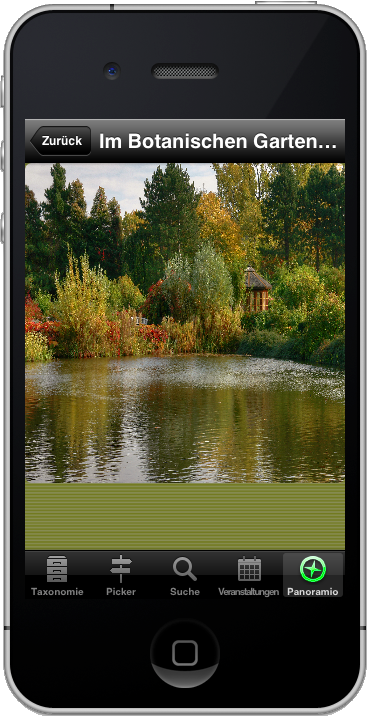
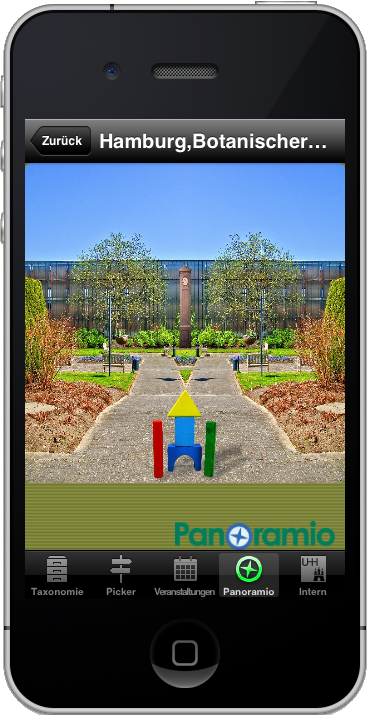
Login as view

diff --git a/Resources/module/panoramioimage.window.js b/Resources/module/panoramioimage.window.js
@@ -4,7 +4,7 @@ exports.create = function(_annotation) {
 	win.backButtonTitle = 'Zurück';
 	var imgView = Ti.UI.createImageView({
 		width : Ti.Platform.displayCaps.platformWidth,
-		height : Ti.Platform.displayCaps.platformWidth/a.ratio,
+		height : Ti.Platform.displayCaps.platformWidth / a.ratio,
 		image : '/assets/tree.png'
 	});
 	require('vendor/imageprogress').get({
@@ -13,7 +13,7 @@ exports.create = function(_annotation) {
 	});
 	var imageContainer = Titanium.UI.createScrollView({
 		width : Ti.Platform.displayCaps.platformWidth,
-		height : Ti.Platform.displayCaps.platformWidth/a.ratio,
+		height : Ti.Platform.displayCaps.platformWidth / a.ratio,
 		top : 0,
 		borderRadius : 7,
 		showHorizontalScrollIndicator : false,
@@ -22,9 +22,13 @@ exports.create = function(_annotation) {
 		maxZoomScale : 8,
 		minZoomScale : 1.0,
 		backgroundColor : "transparent"
-
 	});
 	imageContainer.add(imgView);
 	win.add(imageContainer);
+	win.add(Ti.UI.createImageView({
+		bottom : 0,right:10,
+		width : 160,
+		image : 'http://www.panoramio.com/img/glass/components/logo_bar/panoramio.png'
+	}));
 	return win;
 }

diff --git a/Resources/module/uhh.window.js b/Resources/module/uhh.window.js
@@ -2,9 +2,9 @@ exports.create = function() {
 	var self = require('module/win').create('UHH✦intern');
 	self.backgroundImage = 'Default.png';
 	var active = false;
-	var dialogwindow = require('uhhlogin/dialog.window').create();
+	var dialogView = require('uhhlogin/dialog').create();
 	self.addEventListener('focus', function() {
-		dialogwindow.open();
+		self.add(dialogView);dialogView.show();
 		console.log('FOCUS');
 		active = true;
 		setTimeout(function() {
@@ -14,7 +14,7 @@ exports.create = function() {
 	self.addEventListener('blur', function() {
 		console.log('BLUR');
 		if (!active)
-			dialogwindow.close();
+			self.remove(dialogView);
 	});
 
 	return self;

diff --git a/Resources/uhhlogin/dialog.js b/Resources/uhhlogin/dialog.js
@@ -9,7 +9,7 @@ exports.create = function(_options, _callback) {
 	}
 	var animations = require('uhhlogin/animations');
 	var cron = null;
-	var win = Ti.UI.createWindow({
+	var win = Ti.UI.createView({
 		borderColor : '#eceded',
 		borderWidth : 2,
 		borderRadius : 10,
@@ -144,7 +144,7 @@ exports.create = function(_options, _callback) {
 		}, 50);
 	});
 	cancelBtn.addEventListener('click', function() {
-		win.close();
+		win.hide();
 	});
 	win.addEventListener('focus', function() {
 		win.animate(animations.moveCenter);

diff --git a/Resources/module/panoramio.window.js b/Resources/module/panoramio.window.js
@@ -36,6 +36,7 @@ exports.create = function() {
 					image : '/assets/pin.png',
 					animate : true,
 					subtitle : p.owner,
+					data : p,
 					imageurl : p.image,
 					ratio : p.ratio
 				});
